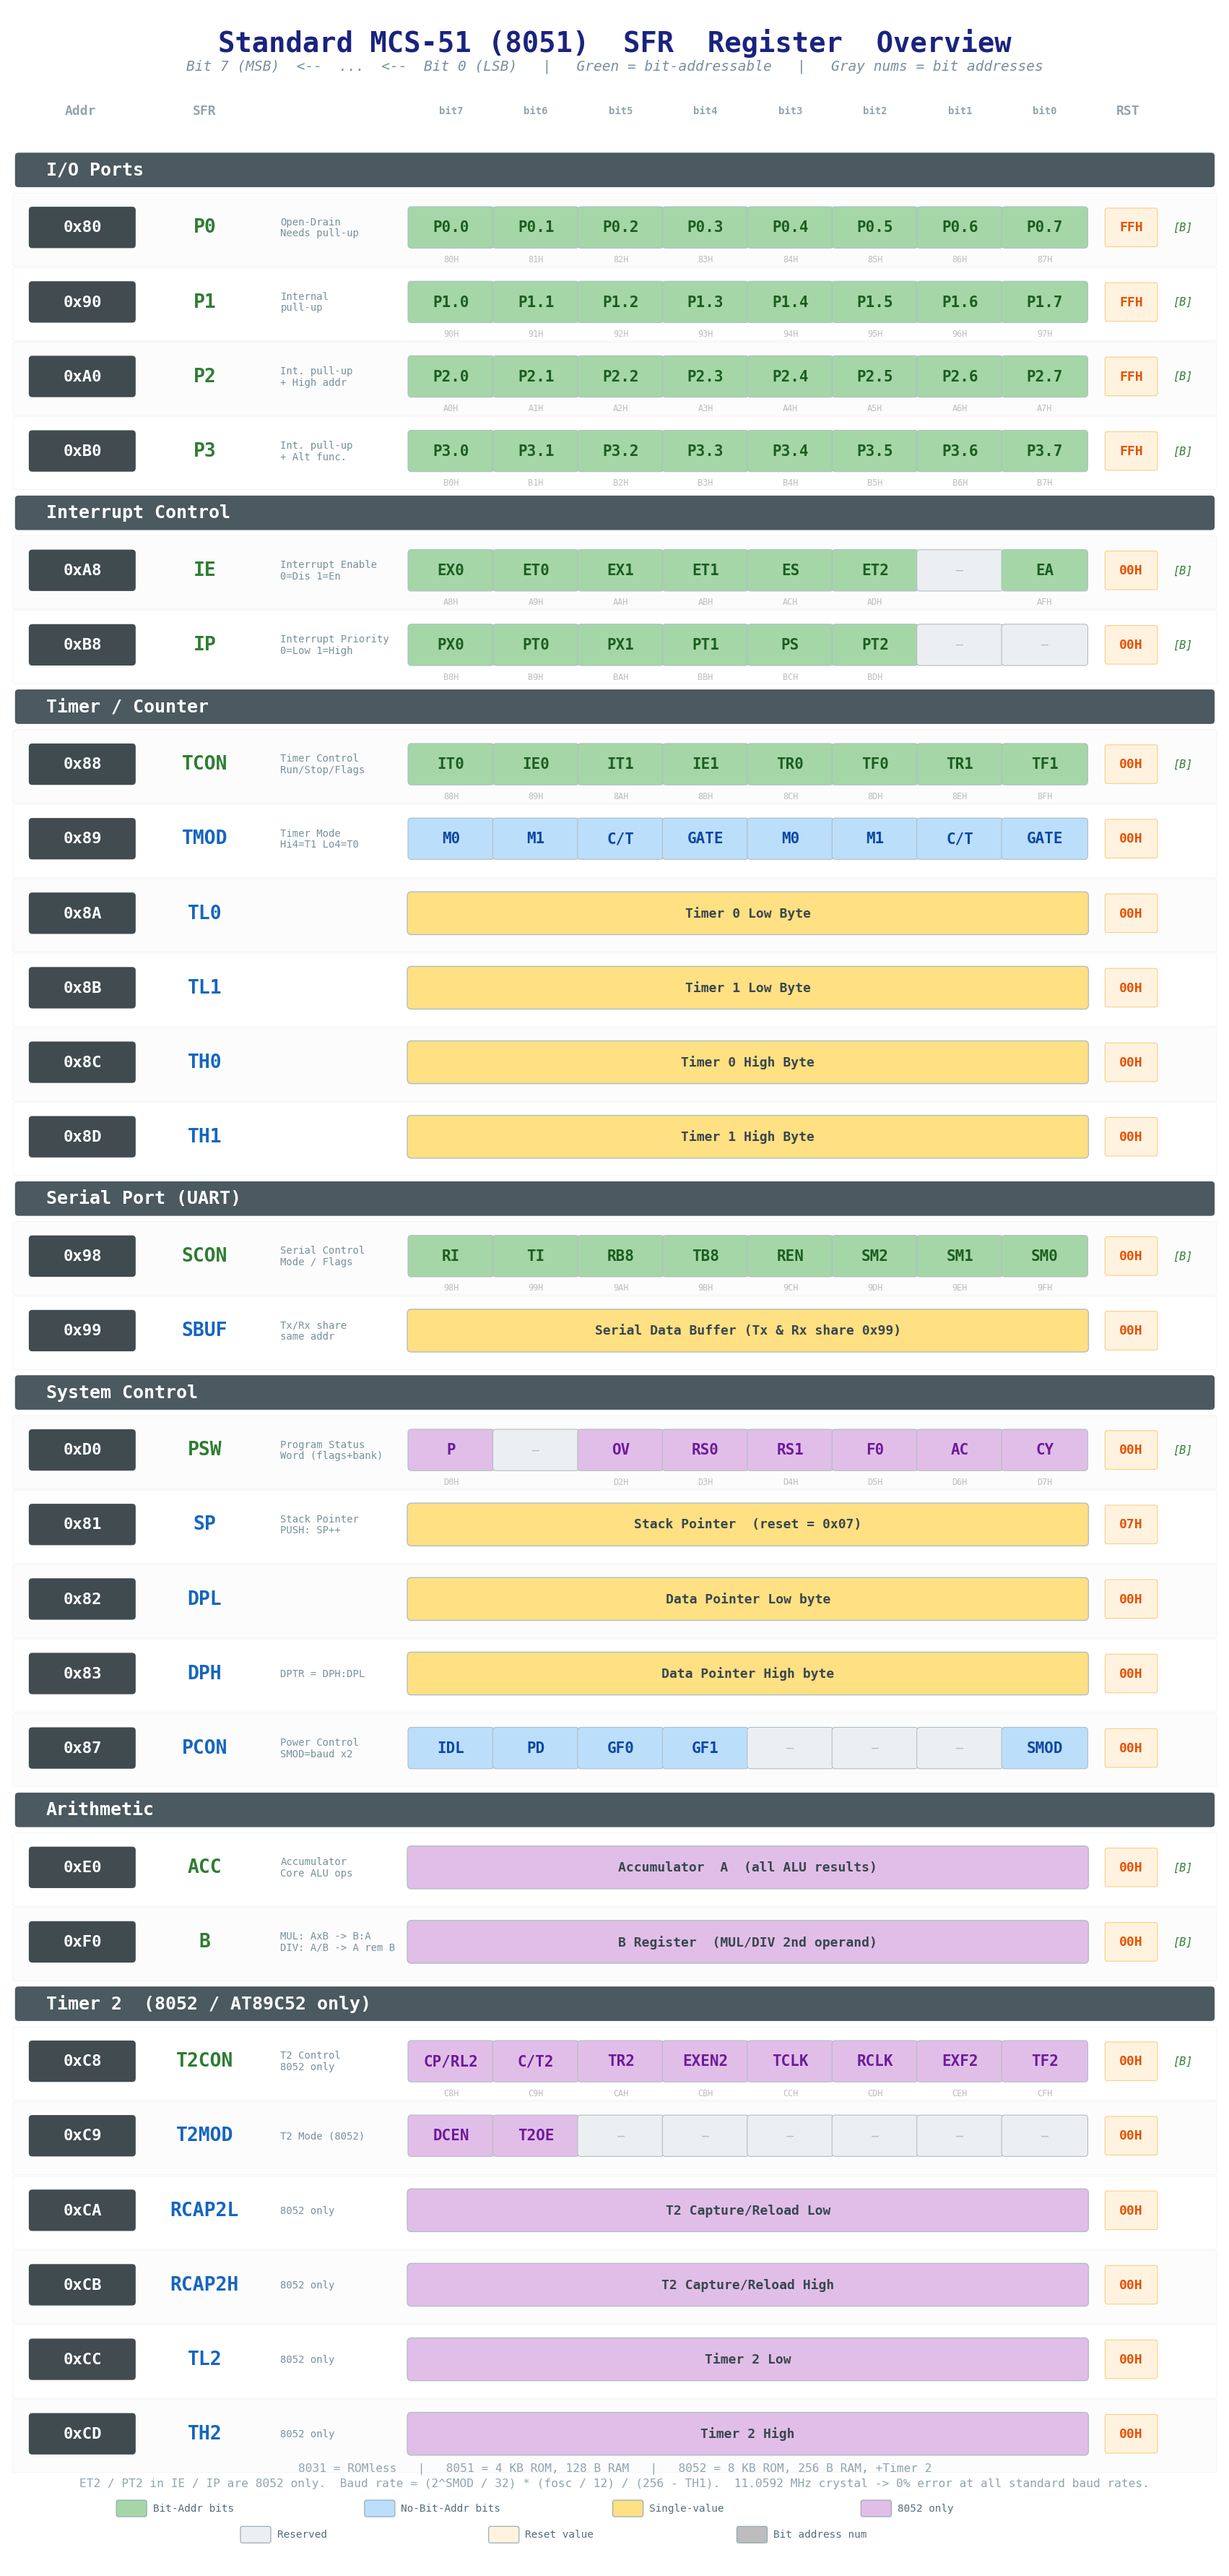
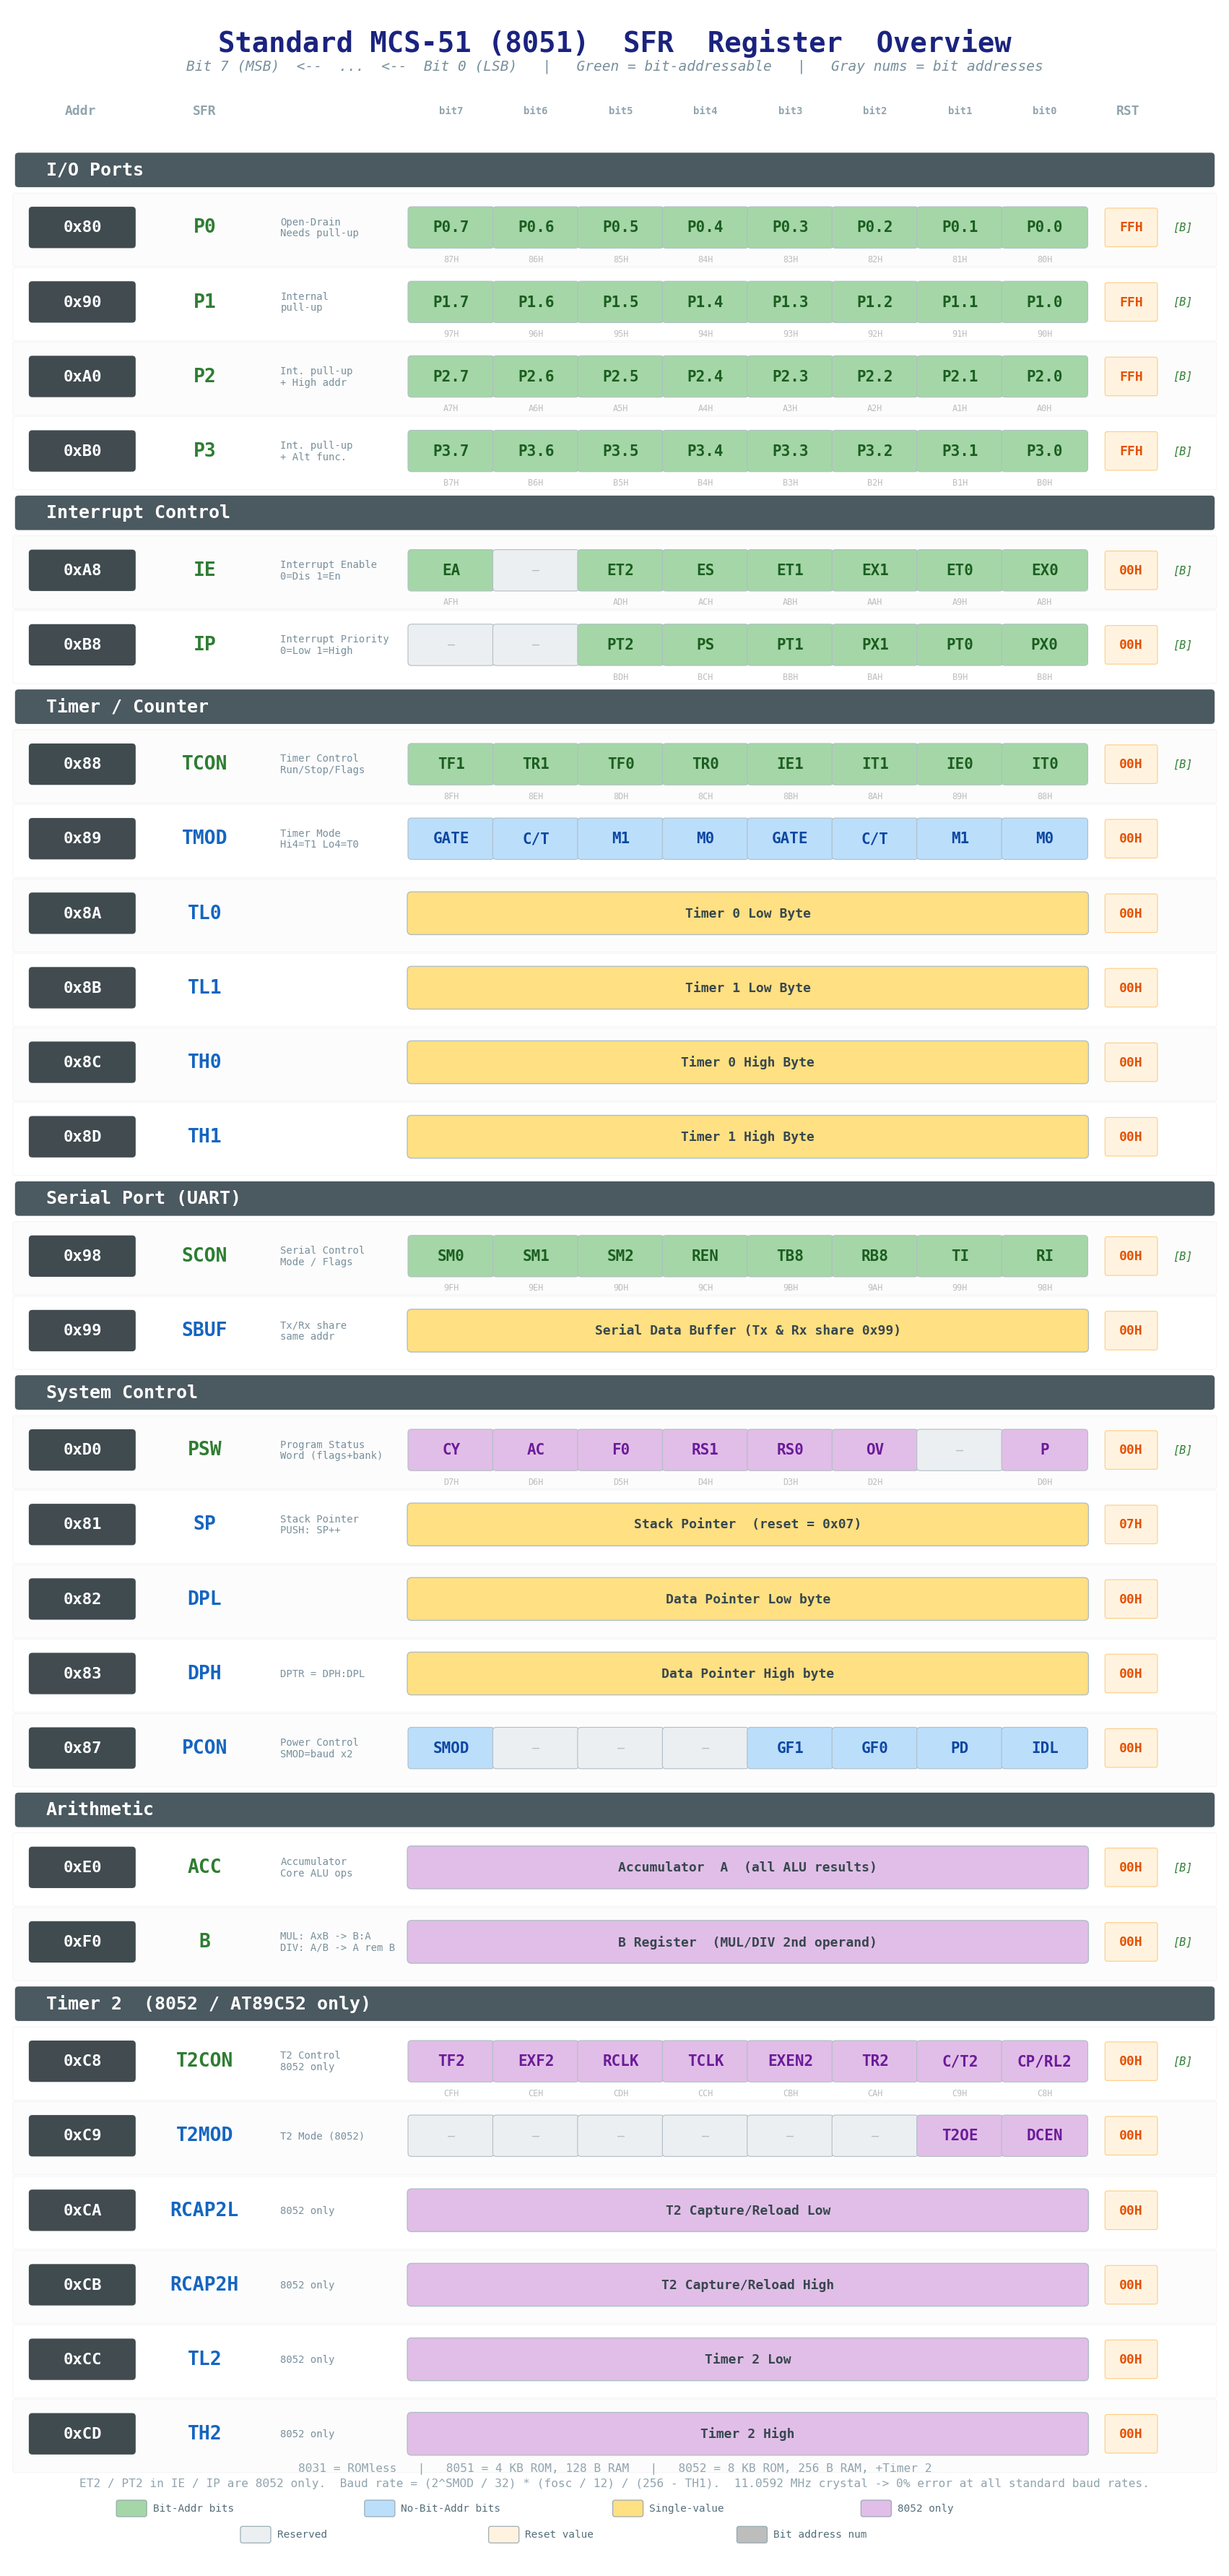
修复图片错误

diff --git a/genChart/gen_8051_overview.py b/genChart/gen_8051_overview.py
@@ -216,7 +216,7 @@ def draw_overview():
         else:
             for b in range(8):
                 bx = x_bits + b * pitch
-                label = bits[7 - b]
+                label = bits[b]
                 if label in ("—", ""):
                     cc, tc, fw, fs = C_RESV, "#B0BEC5", "normal", 6
                 elif addr >= 0xC8:
@@ -234,9 +234,9 @@ def draw_overview():
                         fontsize=fs, fontfamily="monospace", color=tc, fontweight=fw)
 
                 # Bit address below
-                if bit_addrs is not None and bit_addrs[7 - b] is not None:
+                if bit_addrs is not None and bit_addrs[b] is not None:
                     ax.text(bx + bit_w/2, byte_cy - 0.45,
-                            f"{bit_addrs[7-b]:02X}H", ha="center", va="center",
+                            f"{bit_addrs[b]:02X}H", ha="center", va="center",
                             fontsize=4.3, fontfamily="monospace", color=C_BITNUM)
 
         # Reset value
